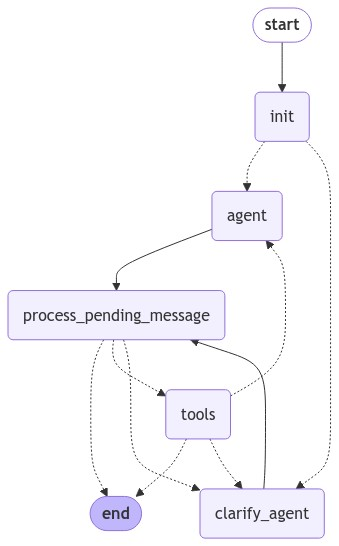
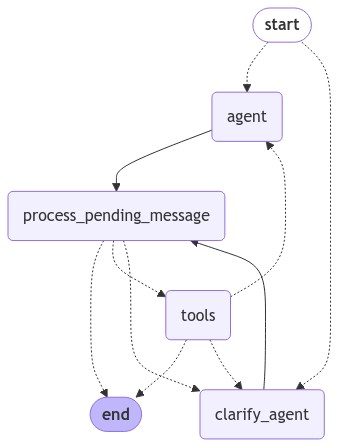
working

diff --git a/chatbot/architecture/clarify.py b/chatbot/architecture/clarify.py
@@ -52,7 +52,7 @@ clarify_prompt = ChatPromptTemplate.from_messages(
             " If user no longer wish to continue using {clarify_tool_name} call {cancel_request_tool_name} to cancel. "
             " If user diverged conversation from {clarify_tool_name}, guide them back. "
         ),
-        ("placeholder", "{messages}"),
+        # ("placeholder", "{messages}"),
     ]
 )
 
@@ -95,7 +95,7 @@ def process_pending_message(state:ClarifyState, config:RunnableConfig, sensitive
                 updates['messages'] += [
                     AIMessage(content="", tool_calls=[tc]), 
                     ToolMessage(content=f"Call denied. Complete {pending_tool_name} clarification OR"
-                                " cancel with {cancel_request_tool_name} before using this tool.", tool_call_id=tc['id'])]
+                                f" cancel with {cancel_request_tool_name} before using this tool.", tool_call_id=tc['id'])]
             else:
                 ntc.append(tc)
         if ntc:
@@ -121,78 +121,96 @@ def route_tools(state:ClarifyState):
 
 
 def clarify_agent_builder(
-    runnable:Runnable[Any, AIMessage], # llm.bind_tools(tools+sensitive_tools)
+    runnable:Runnable[Any, AIMessage],
     tools:List[BaseTool], 
     sensitive_tools:List[BaseTool],
+    *,
     cancel_request_tool:BaseTool=cancel_clarify_request,
-    state_schema:Type[Dict]|None=None,
-    builder:StateGraph|None=None,
+    builder:StateGraph | None = None,
     start:str=START,
     end:str=END,
     node_name_prefix:str="",
 ) -> StateGraph:
+    """
+    Builds an agent with the ability to handle tool calls, including sensitive ones, and clarifies requests when necessary.
+
+    Args:
+        runnable: Must have method .bind_tools implemented. runnable.bind_tools(...).invoke(...) and runnable.bind_tools(...).ainvoke(...) should return BaseMessage.
+        tools: List of standard tools available to the agent.
+        sensitive_tools: List of tools that require clarification before use.
+        cancel_request_tool: A tool that allows cancellation of a clarification request.
+        builder: Predefined StateGraph to build upon, or None to create a new one with default state_schema.
+        start: Identifier for the start node.
+        end: Identifier for the end node.
+        node_name_prefix: Prefix for naming nodes within the graph.
+
+    Returns:
+        StateGraph: The constructed state graph representing the agent's behavior.
+    """
     # validate
-    if builder is not None and state_schema is not None:
-        logger.warning(f"state_schema {state_schema} will be ignored.")
-    state_schema = builder.schema if builder else state_schema or ClarifyState
-    assert  'messages' in get_type_hints(state_schema), "Key 'messages' is missing from State definition"
-    assert  'pending_message' in get_type_hints(state_schema), "Key 'pending_messages' is missing from State definition"
-    assert  'pending_tool_calls' in get_type_hints(state_schema), "Key 'pending_tool_calls' is missing from State definition"
+    state_schema = builder.schema if builder else ClarifyState
+    assert  'messages' in get_type_hints(state_schema), "Key 'messages' is missing from state_schema definition"
+    assert  'pending_message' in get_type_hints(state_schema), "Key 'pending_messages' is missing from state_schema definition"
+    assert  'pending_tool_calls' in get_type_hints(state_schema), "Key 'pending_tool_calls' is missing from state_schema definition"
+    assert hasattr(runnable, "bind_tools"), "runnable.bind_tools not implemented."
 
-    # define variables
-    sensitive_tool_names = set([t.name for t in sensitive_tools])
-
-    # define agent
+    # define agent node
+    agent_runnable = runnable.bind_tools(tools + sensitive_tools)
     def invoke(state, config: RunnableConfig):
         return {
-            "pending_message": runnable.invoke(state, config),
+            "pending_message": agent_runnable.invoke(state, config),
             "current_agent": "main",
             }
     async def ainvoke(state, config: RunnableConfig):
         return {
-            "pending_message": await runnable.ainvoke(state, config),
+            "pending_message": await agent_runnable.ainvoke(state, config),
             "current_agent": "main",
             }
     agent = RunnableLambda(invoke, ainvoke, node_name_prefix + AGENT)
 
-    # define clarify agent
-    clarify_runnable = (
-        RunnablePassthrough().assign(**{
-            'clarify_tool_name':lambda state: state['pending_tool_calls'][-1],
-        }).assign(**{
-            'messages':(
-                clarify_prompt.partial(cancel_request_tool_name=cancel_request_tool.name) 
-                | RunnableLambda(lambda x : x.messages))
-        })
-        | runnable
-    )
-    def clarify_invoke(state, config: RunnableConfig):
+    # define clarify agent node
+    clarify_runnable = runnable.bind_tools(tools + sensitive_tools + [cancel_request_tool])
+    def clarify_invoke(state:ClarifyState, config: RunnableConfig):
+        state['messages'] = clarify_prompt.invoke({
+            "cancel_request_tool_name":cancel_request_tool.name,
+            'clarify_tool_name':state['pending_tool_calls'][-1],
+        }).messages + state['messages']
         return {
             "pending_message":clarify_runnable.invoke(state, config),
             "current_agent": "clarify",
             }
-    async def clarify_ainvoke(state, config: RunnableConfig):
+    async def clarify_ainvoke(state:ClarifyState, config: RunnableConfig):
+        state['messages'] = clarify_prompt.invoke({
+            "cancel_request_tool_name":cancel_request_tool.name,
+            'clarify_tool_name':state['pending_tool_calls'][-1],
+        }).messages + state['messages']
         return {
             "pending_message":await clarify_runnable.ainvoke(state, config),
             "current_agent": "clarify",
             }
-
     clarify_agent = RunnableLambda(clarify_invoke, clarify_ainvoke, node_name_prefix + CLARIFY_AGENT)
 
-    # define tools
+    # define process_pending_message node
+    ppm_node = RunnableLambda(
+        func = partial(process_pending_message, 
+                       sensitive_tool_names=set([t.name for t in sensitive_tools]), 
+                       cancel_request_tool_name=cancel_request_tool.name), 
+        name = node_name_prefix + 'process_pending_message')
+
+    # define tools node
     tools_node = ToolNode(tools + sensitive_tools + [cancel_request_tool], name=node_name_prefix + "tools")
 
     # build
     builder = builder or StateGraph(state_schema)
     # nodes
-    ppm_node_name = node_name_prefix + 'process_pending_message'
     builder.add_node(agent.name, agent)
     builder.add_node(clarify_agent.name, clarify_agent)
-    builder.add_node(ppm_node_name, 
-                     partial(process_pending_message, sensitive_tool_names=sensitive_tool_names, cancel_request_tool_name=cancel_request_tool.name))
+    builder.add_node(ppm_node.name, ppm_node)
     builder.add_node(tools_node.name, tools_node)
     # edges
-    builder.add_conditional_edges(start, route_start, {AGENT:agent.name, CLARIFY_AGENT:clarify_agent.name}, then=ppm_node_name)
-    builder.add_conditional_edges(ppm_node_name, route_process_pending_message, {END:end, "tools":tools_node.name, CLARIFY_AGENT:clarify_agent.name})
+    builder.add_conditional_edges(start, route_start, {AGENT:agent.name, CLARIFY_AGENT:clarify_agent.name})
+    builder.add_edge(clarify_agent.name, ppm_node.name)
+    builder.add_edge(agent.name, ppm_node.name)
+    builder.add_conditional_edges(ppm_node.name, route_process_pending_message, {END:end, "tools":tools_node.name, CLARIFY_AGENT:clarify_agent.name})
     builder.add_conditional_edges(tools_node.name, route_tools, {END:end, AGENT:agent.name, CLARIFY_AGENT:clarify_agent.name})
     return builder

diff --git a/chatbot/app_terminal.py b/chatbot/app_terminal.py
@@ -1,25 +1,39 @@
+from typing import List, Set
 import dotenv
 
 dotenv.load_dotenv('.env')
 
 from uuid import uuid4
 
-from langchain_core.messages import HumanMessage
+from langchain_core.messages import HumanMessage, BaseMessage
 from langchain_openai import ChatOpenAI
 from langgraph.checkpoint.memory import MemorySaver
 
 from chatbot import tools
 from chatbot.agents.jira import graph
 
+def print_messages_without_duplicates(messages:List[BaseMessage], id_tracker:Set|None=None):
+    id_tracker = set() if id_tracker is None else id_tracker
+    for message in messages:
+        if message.id not in id_tracker:
+            id_tracker.add(message.id)
+            print(f"{message.type:>10}: {message.content.replace('\n',f"{'\n':10}")}")
+            if message.type == 'ai' and message.tool_calls:
+                for tc in message.tool_calls:
+                    args = ", ".join([f"{k}={v}" for k,v in tc['args'].items()])
+                    print(f"{'':10} <tool_call> {tc['name']}({args})")
+    
 
 config = {"configurable":{"thread_id":str(uuid4()), 'email':'pengshiya'}}
 msgs = [
-    HumanMessage(content="create jira ticket"),
-    HumanMessage(content="create one for implementing pgadmin, fill everything else in for me."),
-    HumanMessage(content="search internet for a good description for this task."),
+    # HumanMessage(content="quack"),
+    # HumanMessage(content="create jira ticket"),
+    # HumanMessage(content="create one for implementing pgadmin, fill everything else in for me."),
+    # HumanMessage(content="search internet for a good description for this task."),
     # HumanMessage(content="create one for implementing pgadmin"),
     # HumanMessage(content="its a task, medium priority, no labels, for description, can you use 'bamboozled' spelt backwards?"),
     # HumanMessage(content="quack"),
+    # HumanMessage(content="可以可以，你整吧。"),
     # HumanMessage(content="no"),
     # HumanMessage(content="just kidddingg! i still want that ticket"),
     # HumanMessage(content="Tell me about qingyi"),
@@ -27,6 +41,7 @@ msgs = [
     # HumanMessage(content="写一段关于她的小说吧。"),
 ]
 try:
+    printed_message_id = set()
     for _ in range(10): 
         if graph.get_state(config).next:
             approve = input("approve:")
@@ -38,24 +53,26 @@ try:
                 msg = msgs.pop(0)
                 print(f"human: {msg}")
             else:
-                msg = input("human: ")
+                msg = HumanMessage(content=input("human: "))
             inputs = {"messages":[msg]}
+        
         events = graph.stream(inputs, config, stream_mode='updates')
         for updates in events:
             for node, updates in updates.items():
-                print(f"== {node} ==")
-                for k,v in updates.items():
-                    if k == 'messages':
-                        messages = updates.get('messages', [])
-                        if not isinstance(messages, list):
-                            messages = [messages]
-                        for message in messages:
-                            print(f"{message.type}: {message}")
-                            print()
+                print(f"============ {node} ============")
+                for k, v in updates.items():
+                    if k in ['messages']:
+                        print(f"{k}:")
+                        # print(v)
+                        print_messages_without_duplicates(v, printed_message_id)
                     else:
                         print(f"{k}: {v}")
-                print()
+                    print()
 except KeyboardInterrupt:
     pass
-# finally:
-#     print(graph.get_state(config))
+finally:
+    print()
+    print("======================================")
+    # print(graph.get_state(config))
+    print_messages_without_duplicates(graph.get_state(config).values['messages'])
+    print("======================================")

diff --git a/chatbot/agents/jira.py b/chatbot/agents/jira.py
@@ -5,50 +5,39 @@ from datetime import datetime
 
 from langchain_core.prompts import ChatPromptTemplate
 from langchain_openai import ChatOpenAI
+from langchain.chat_models.base import BaseChatModel
 from langgraph.checkpoint.memory import MemorySaver
-from langgraph.graph import START, StateGraph
-
-from chatbot.architecture.clarify import ClarifyState, clarify_agent_builder
-from chatbot.tools import (cancel_clarify_request, create_jira_ticket,
-                           get_jira_tickets, get_user_info, search_internet)
-
-
-class JiraState(ClarifyState):
-    user_info: str
-tools=[get_jira_tickets]
-sensitive_tools=[create_jira_ticket, search_internet]
-all_tools = tools + sensitive_tools
-llm = ChatOpenAI(model="gpt-4o-mini", temperature=0)
-prompt = ChatPromptTemplate.from_messages(
-            [
+from langchain_core.runnables import RunnablePassthrough
+from chatbot.architecture.clarify import clarify_agent_builder
+from chatbot.tools import (create_jira_ticket,
+                           get_jira_tickets, search_internet)
+from chatbot.mocks import MockChat
+class Agent:
+    def __init__(self, llm:BaseChatModel):
+        self.llm = llm
+    def bind_tools(self, tools):
+        return (
+            RunnablePassthrough.assign(**{"time":lambda x:datetime.now()})
+            | ChatPromptTemplate.from_messages([
                 (
                     "system",
                     "You are a helpful assistant for Virtuos Games Company. "
                     " Use the provided tools to assist the user. "
-                    "\n\nCurrent User:\n<User>\n{user_info}\n</User>"
                     "\nCurrent time: {time}."
                 ),
                 ("placeholder", "{messages}"),
-            ]
-        ).partial(time=datetime.now())
+                ])
+            | self.llm.bind_tools(tools))
 
-runnable = (
-    prompt
-    | llm.bind_tools(tools + sensitive_tools + [cancel_clarify_request])
-)
-
+tools=[get_jira_tickets]
+sensitive_tools=[create_jira_ticket, search_internet]
+all_tools = tools + sensitive_tools
 memory = MemorySaver()
-builder = StateGraph(JiraState)
-builder.add_edge(START, 'init')
-builder.add_node('init', lambda state, config: {'user_info':get_user_info.invoke(state, config)})
 graph = clarify_agent_builder(
-    runnable=runnable,
+    runnable=Agent(ChatOpenAI(model="gpt-4o-mini", temperature=0)),
+    # runnable=Agent(MockChat(model="gpt-4o-mini", temperature=0)),
     tools=tools,
     sensitive_tools=sensitive_tools,
-    # node_name_prefix='jira_',
-    start='init',
-    builder=builder,
-    state_schema=ClarifyState,
     ).compile(memory)
 graph.get_graph(
     # xray=True,

diff --git a/chatbot/app_gradio.py b/chatbot/app_gradio.py
@@ -22,42 +22,18 @@ from langgraph.checkpoint.memory import MemorySaver
 from chatbot.database import vector_db
 
 # == llm
-llm = ChatOpenAI(model="gpt-3.5-turbo", temperature=0).configurable_fields(
-        model_name=ConfigurableField(
-                id="llm/model_name",
-                is_shared=True,
-            ),
-        temperature=ConfigurableField(
-                id="llm/temperature",
-                is_shared=True,
-            ),
-        )
+# llm = ChatOpenAI(model="gpt-3.5-turbo", temperature=0).configurable_fields(
+#         model_name=ConfigurableField(
+#                 id="llm/model_name",
+#                 is_shared=True,
+#             ),
+#         temperature=ConfigurableField(
+#                 id="llm/temperature",
+#                 is_shared=True,
+#             ),
+#         )
 # == agent
-from chatbot import tools
-from chatbot.architecture.clarify import get_builder as get_clarify_builder
-
-memory = MemorySaver()
-normal_tools=[
-    # tools.generate_image_with_text, 
-    # tools.get_jira_tickets, 
-    tools.search_internet,
-    tools.search_session_data,
-    ]
-clarify_tools=[
-    # tools.create_jira_ticket,
-    ]
-all_tools = normal_tools + clarify_tools
-builder = get_clarify_builder(
-    ChatOpenAI(model="gpt-3.5-turbo", temperature=0),
-    normal_tools=normal_tools,
-    clarify_tools=clarify_tools,
-    )
-graph = builder.compile(
-    checkpointer=memory,
-    interrupt_before=[k for k in builder.nodes.keys() if 'tools' in k]
-    )
-fname, _ = os.path.splitext(os.path.basename(__file__))
-graph.get_graph(xray=True).draw_mermaid_png(output_file_path=f'graphs/{fname}.png')
+from chatbot.agents.jira import graph, all_tools
 # == application
 
 

diff --git a/chatbot/tools.py b/chatbot/tools.py
@@ -1,6 +1,6 @@
 
 import random
-from typing import Annotated, Literal
+from typing import Annotated, Dict, Literal
 from langchain.tools.base import StructuredTool
 from langchain_community.tools import TavilySearchResults
 from langchain_core.runnables import RunnableConfig
@@ -53,7 +53,7 @@ def get_session_data_summary(config:RunnableConfig) -> str:
     return f"Session has data from sources: {data['data_source']}"
 
 @tool
-def get_user_info(config: RunnableConfig, include_session_data_summary=True):
+def get_user_info(config: RunnableConfig, include_session_data_summary=True) -> Dict:
     """ Fetch all user information.
     Returns:
         A dictionary of user information. Returns an empty dictionary if no user information found.

diff --git a/chatbot/mocks.py b/chatbot/mocks.py
@@ -50,10 +50,10 @@ class MockChat(BaseChatModel):
         if txt in tool_names:
             message = AIMessage(content="", tool_calls=[mock_tool_call(txt)])
         elif tools and random.choice([True, False]):
-            tool_calls=[mock_tool_call(random.choice(tool_names))  for _ in range(random.randint(1,3)) ]
+            tool_calls=[mock_tool_call(random.choice(list(tool_names)))  for _ in range(random.randint(1,3)) ]
             message = AIMessage(content="", tool_calls=tool_calls)
         else:
-            message = AIMessage(content=txt or "empty")
+            message = AIMessage(content=f"you said \"{txt}\"" or "empty")
         return ChatResult(
             generations=[ChatGeneration(message=message)]
         )
